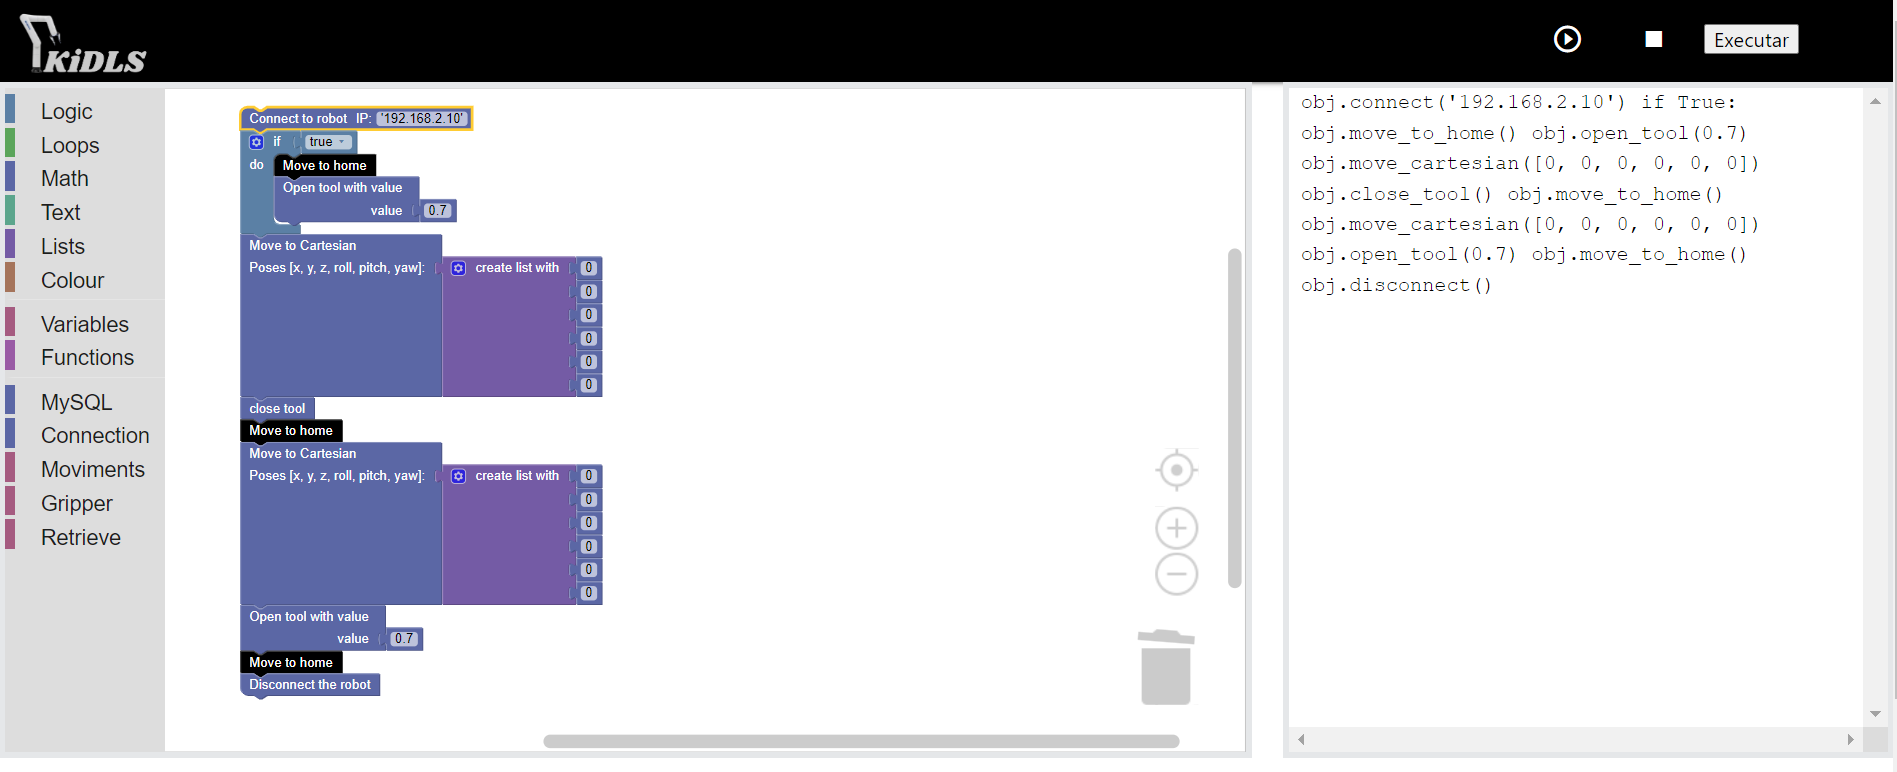
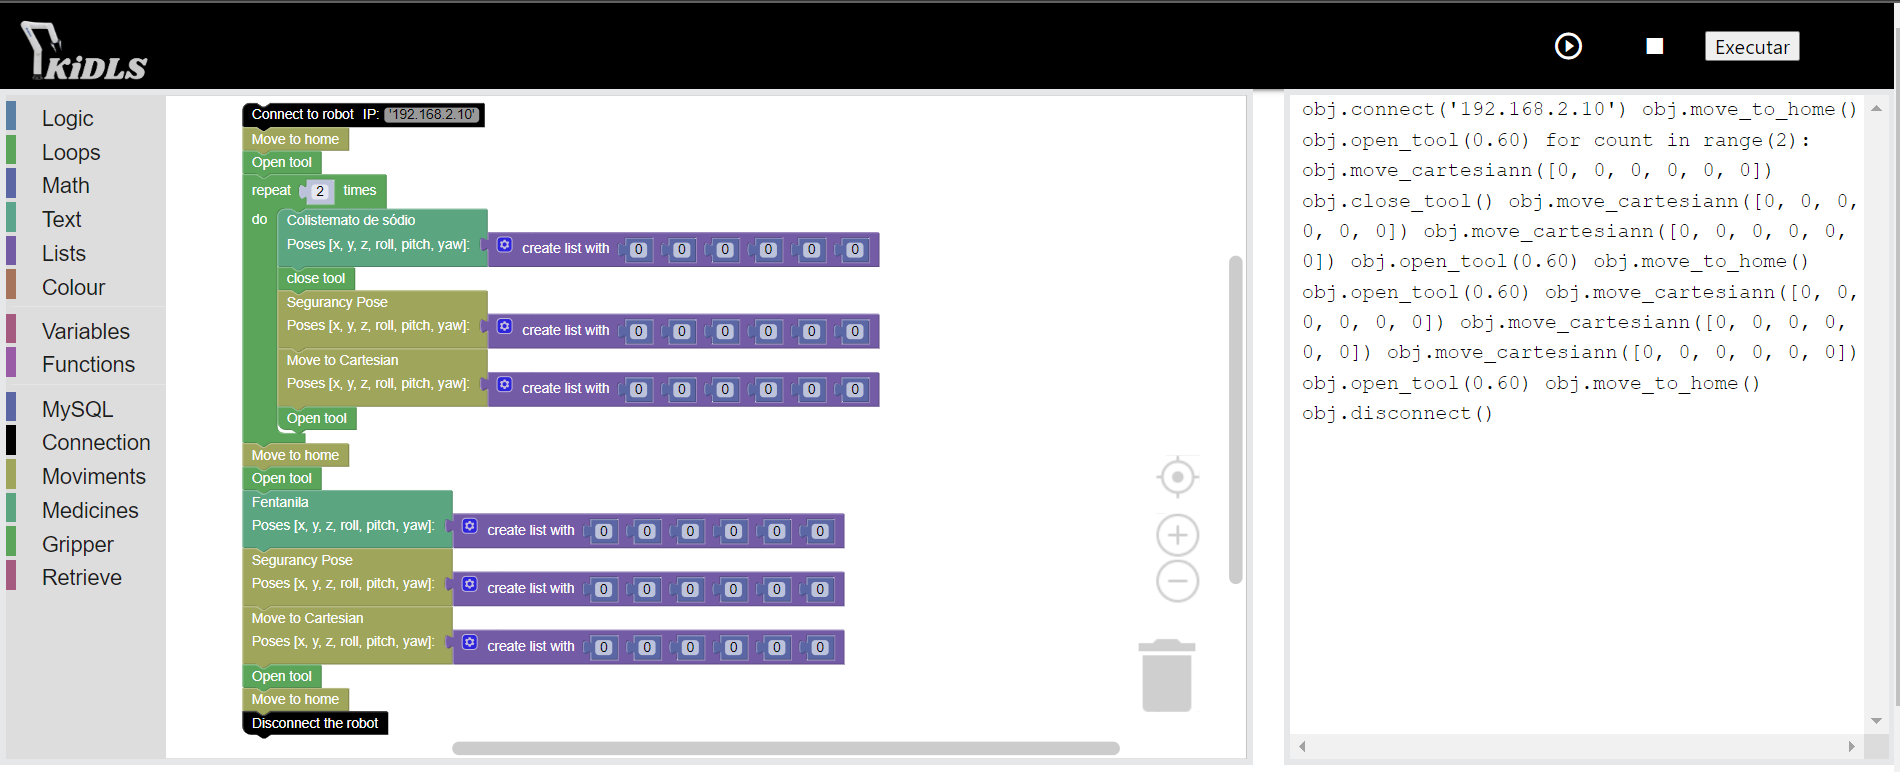
Inserting video demo

Changed region(s): [[0.0, 0.0, 1.0, 0.9948], [0.5909, 0.8083, 0.6531, 0.8705], [0.8397, 0.4974, 0.8708, 0.5285]]

diff --git a/static/src/generated_code.py b/static/src/generated_code.py
@@ -3,3 +3,18 @@ from robot import Robot
 obj = Robot()
 
 obj.connect('192.168.2.10')
+if True:
+  obj.move_to_home()
+for count in range(2):
+  obj.move_cartesiann([0, 0, 0, 0, 0, 0])
+  obj.close_tool()
+  obj.move_cartesiann([0, 0, 0, 0, 0, 0])
+  obj.move_cartesiann([0, 0, 0, 0, 0, 0])
+  obj.open_tool(0.60)
+obj.move_cartesiann([0, 0, 0, 0, 0, 0])
+obj.close_tool()
+obj.move_cartesiann([0, 0, 0, 0, 0, 0])
+obj.move_cartesiann([0, 0, 0, 0, 0, 0])
+obj.open_tool(0.60)
+obj.move_to_home()
+obj.disconnect()

diff --git a/README.md b/README.md
@@ -26,30 +26,4 @@ We release by pushing the latest code to the master branch, followed by updating
 
 Releases are tagged by the release date (YYYYMMDD) with a leading '1.' and a trailing '.0' in case we ever need a major or minor version (such as [1.20190419.0](https://github.com/google/blockly/tree/1.20190419.0)). If you're using npm, a specific release can be installed by using its tag: `npm install git://github.com/google/blockly.git#1.20181219.0`
 
-### New APIs
 
-Once a new API is merged into master it is considered beta until the following release. We generally try to avoid changing an API after it has been merged to master, but sometimes we need to make changes after seeing how an API is used. If an API has been around for at least two releases we'll do our best to avoid breaking it.
-
-Unreleased APIs may change radically. Anything that is in `develop` but not `master` is subject to change without warning.
-
-### Branches
-
-There are two main branches for Blockly.
-
-**[master](https://github.com/google/blockly)** - This is the (mostly) stable current release of Blockly.
-
-**[develop](https://github.com/google/blockly/tree/develop)** - This is where most of our work happens. Pull requests should always be made against develop. This branch will generally be usable, but may be less stable than the master branch. Once something is in develop we expect it to merge to master in the next release.
-
-**other branches:** - Larger changes may have their own branches until they are good enough for people to try out. These will be developed separately until we think they are almost ready for release. These branches typically get merged into develop immediately after a release to allow extra time for testing.
-
-## Issues and Milestones
-
-We typically triage all bugs within 2 working days, which includes adding any appropriate labels and assigning it to a milestone. Please keep in mind, we are a small team so even feature reqeusts that everyone agrees on may not be prioritized.
-
-### Milestones
-
-**Upcoming release** - The upcoming release milestone is for all bugs we plan on fixing before the next release. This typically has the form of `year_quarter_release` (such as `2019_q2_release`). Some bugs will be added to this release when they are triaged, others may be added closer to a release.
-
-**Bug Bash Backlog** - These are bugs that we're still prioritizing. They haven't been added to a specific release yet, but we'll consider them for each release depending on relative priority and available time.
-
-**Icebox** - These are bugs that we do not intend to spend time on. They are either too much work or minor enough that we don't expect them to ever take priority. We are still happy to accept pull requests for these bugs.
